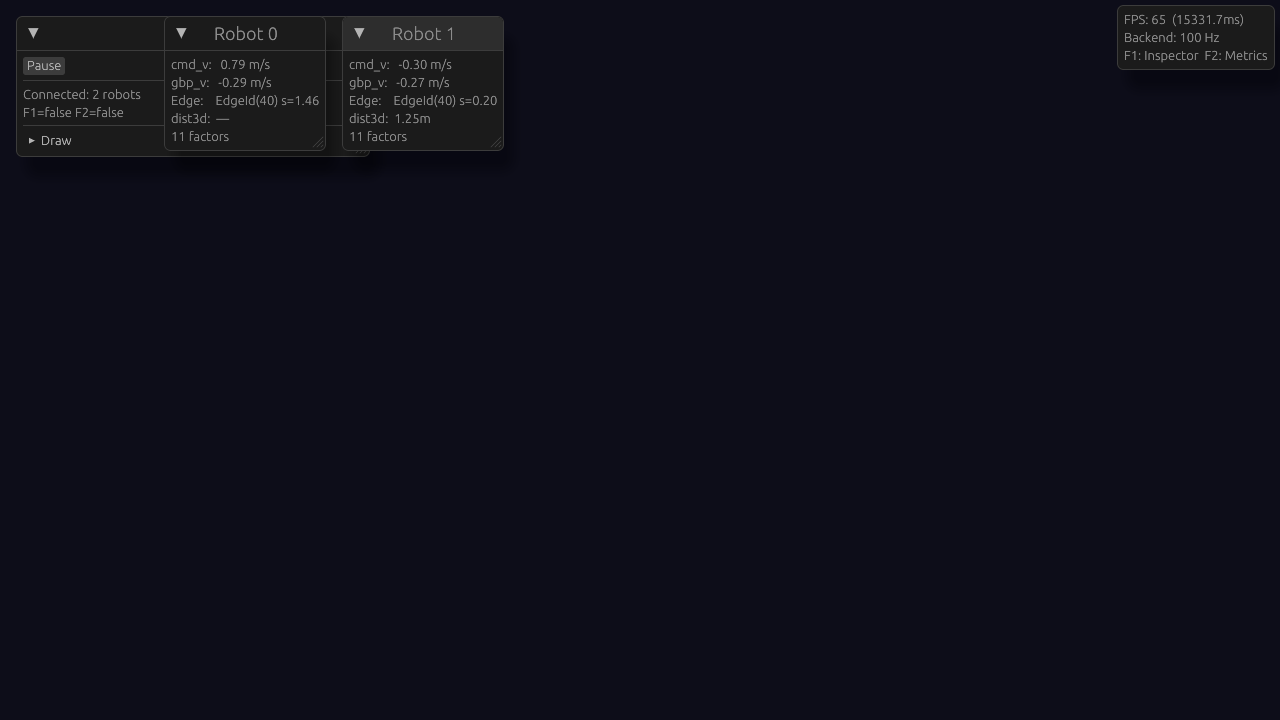
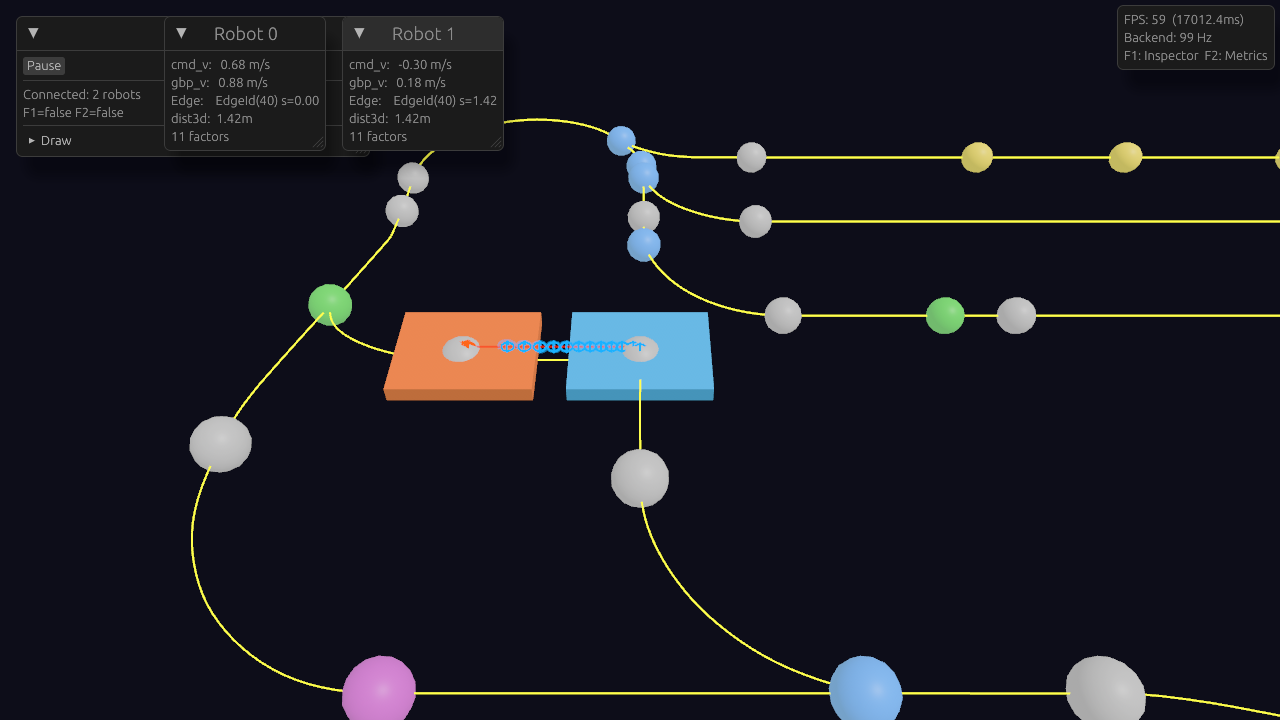
fix(m6a): pos_3d is already Bevy coords — remove double transform in follow camera and path traces
robot_world_pos() returns [p[0], p[2], -p[1]] (Bevy coords).
The simulator sends pos_3d with the same values.
map_to_bevy(pos_3d) was applying the conversion a second time,
placing the follow camera and path traces at wrong positions.

diff --git a/src/bins/visualiser/src/robot_render.rs b/src/bins/visualiser/src/robot_render.rs
@@ -193,10 +193,16 @@ fn update_robot_transforms(
     states: Res<RobotStates>,
     mut query: Query<(&RobotArrow, &mut Transform)>,
 ) {
+    let mut logged = false;
     for (arrow, mut transform) in query.iter_mut() {
         if let Some(state) = states.0.get(&arrow.robot_id) {
             let pos = robot_world_pos(&map.0, state.current_edge, state.position_s);
             let tan = robot_tangent(&map.0, state.current_edge, state.position_s);
+            if !logged && arrow.robot_id == 0 {
+                logged = true;
+                tracing::info!("[mesh] r0: world_pos={pos:?} pos_3d={:?} edge={:?} s={:.2}",
+                    state.pos_3d, state.current_edge, state.position_s);
+            }
             // Lift chassis so bottom sits on track (half height above track surface)
             transform.translation = Vec3::from(pos) + Vec3::new(0.0, CHASSIS_HEIGHT / 2.0, 0.0);
             // Align chassis length (Z axis) along travel direction
@@ -403,9 +409,8 @@ fn sample_trace(
     if !draw.path_traces { return; }
     let now = time.elapsed_secs();
     for (robot_id, state) in &states.0 {
-        let p = state.pos_3d;
-        // Apply the same map→Bevy coordinate transform used elsewhere: (x, z, -y)
-        let bevy_pos = Vec3::new(p[0], p[2], -p[1]);
+        // pos_3d is already in Bevy coords (same as robot_world_pos output)
+        let bevy_pos = Vec3::from(state.pos_3d);
         traces.push(*robot_id, bevy_pos, now);
     }
     traces.prune_stale(now, 5.0);

diff --git a/src/bins/visualiser/src/main.rs b/src/bins/visualiser/src/main.rs
@@ -197,13 +197,26 @@ fn main() {
     tracing::info!("app exited, WS client shutdown flag set");
 }
 
-fn auto_screenshot(mut commands: Commands, time: Res<Time>, mut done: Local<bool>) {
-    if *done { return; }
-    if time.elapsed_secs() > 2.0 {
-        *done = true;
-        let path = "/repo/.worktrees/m6a-visualiser-overhaul/screenshot.png";
-        tracing::info!("[debug] screenshot -> {path}");
-        commands.spawn(bevy::render::view::screenshot::Screenshot::primary_window())
-            .observe(bevy::render::view::screenshot::save_to_disk(path));
+fn auto_screenshot(
+    mut commands: Commands,
+    time: Res<Time>,
+    mut cam: ResMut<camera::CameraState>,
+    mut step: Local<u8>,
+) {
+    let t = time.elapsed_secs();
+    match *step {
+        0 if t > 2.0 => {
+            cam.mode = camera::CameraMode::Follow(0);
+            tracing::info!("[auto] follow robot 0");
+            *step = 1;
+        }
+        1 if t > 5.0 => {
+            let path = "/repo/.worktrees/m6a-visualiser-overhaul/screenshot.png";
+            tracing::info!("[auto] screenshot -> {path}");
+            commands.spawn(bevy::render::view::screenshot::Screenshot::primary_window())
+                .observe(bevy::render::view::screenshot::save_to_disk(path));
+            *step = 2;
+        }
+        _ => {}
     }
 }

diff --git a/src/bins/visualiser/src/camera.rs b/src/bins/visualiser/src/camera.rs
@@ -317,9 +317,8 @@ fn camera_input_system(
 // ── Transform application ───────────────────────────────────────────────────
 
 const FOLLOW_P_GAIN: f32 = 5.0;
-/// Offset from robot position: (right, up, behind) in Bevy world space.
-/// Must be large enough to see the track from above (robots can be at Y ≈ -4 in Bevy space).
-const FOLLOW_OFFSET: Vec3 = Vec3::new(0.0, 8.0, 6.0);
+/// Offset from robot position in Bevy world space (up and behind).
+const FOLLOW_OFFSET: Vec3 = Vec3::new(0.0, 5.0, 5.0);
 
 fn apply_camera_transform(
     state: Res<CameraState>,
@@ -332,7 +331,8 @@ fn apply_camera_transform(
     match state.mode {
         CameraMode::Follow(rid) => {
             if let Some(rs) = robot_states.0.get(&rid) {
-                let rpos = CameraState::map_to_bevy(rs.pos_3d);
+                // pos_3d is ALREADY in Bevy coords (same as robot_world_pos output)
+                let rpos = Vec3::from(rs.pos_3d);
                 let desired = rpos + FOLLOW_OFFSET;
                 let alpha = (time.delta_secs() * FOLLOW_P_GAIN).min(1.0);
                 let pos = camera.translation.lerp(desired, alpha);
